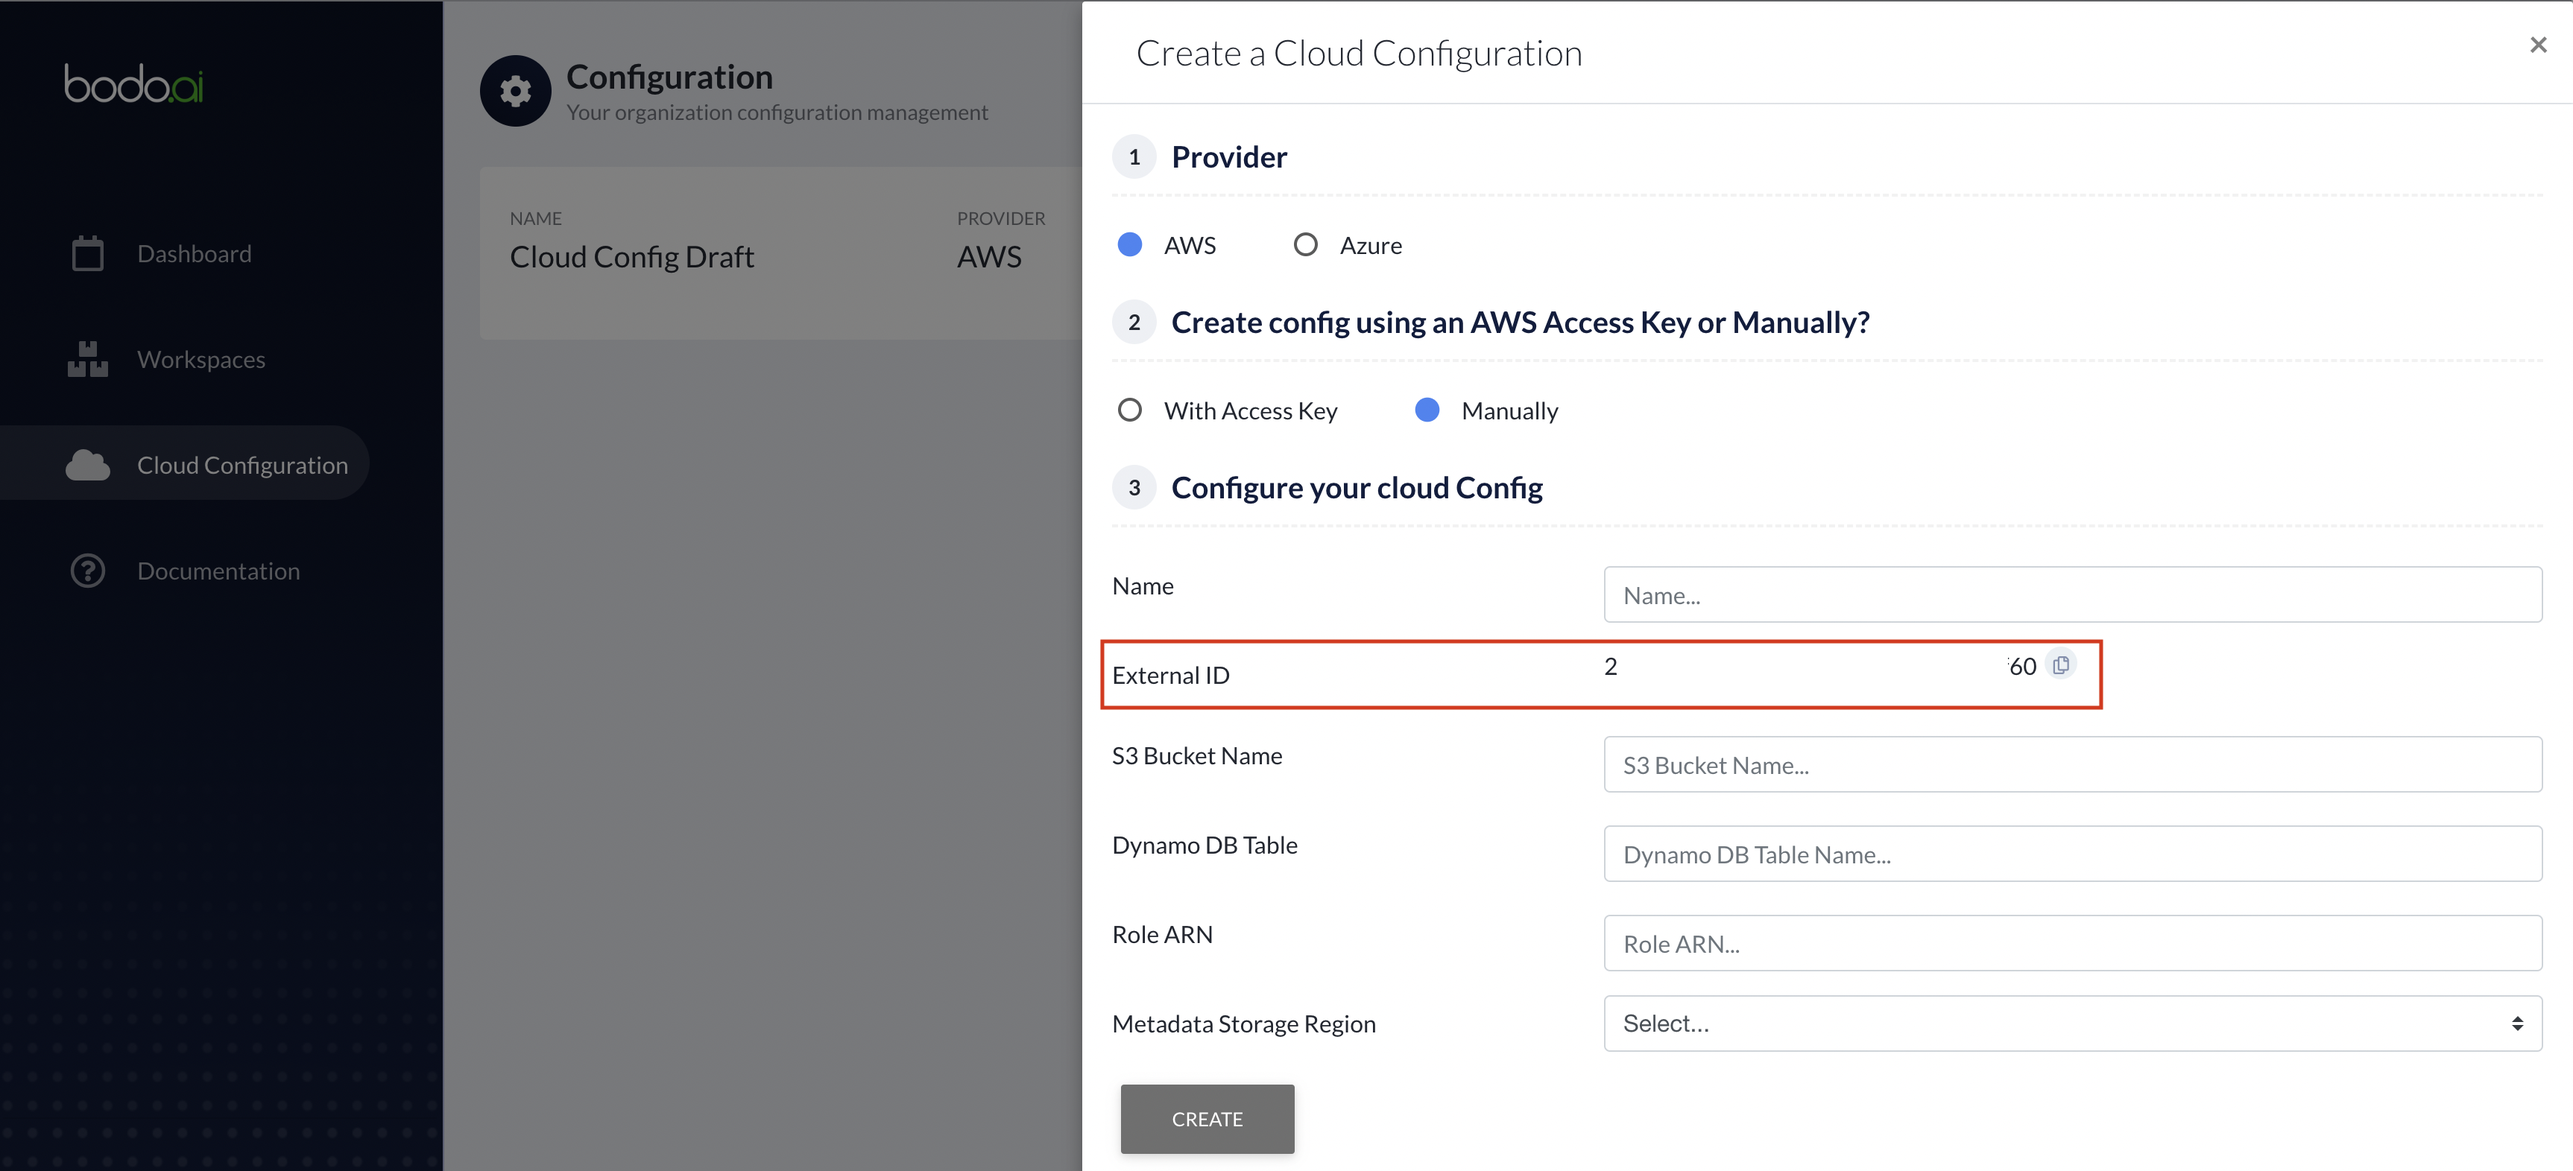
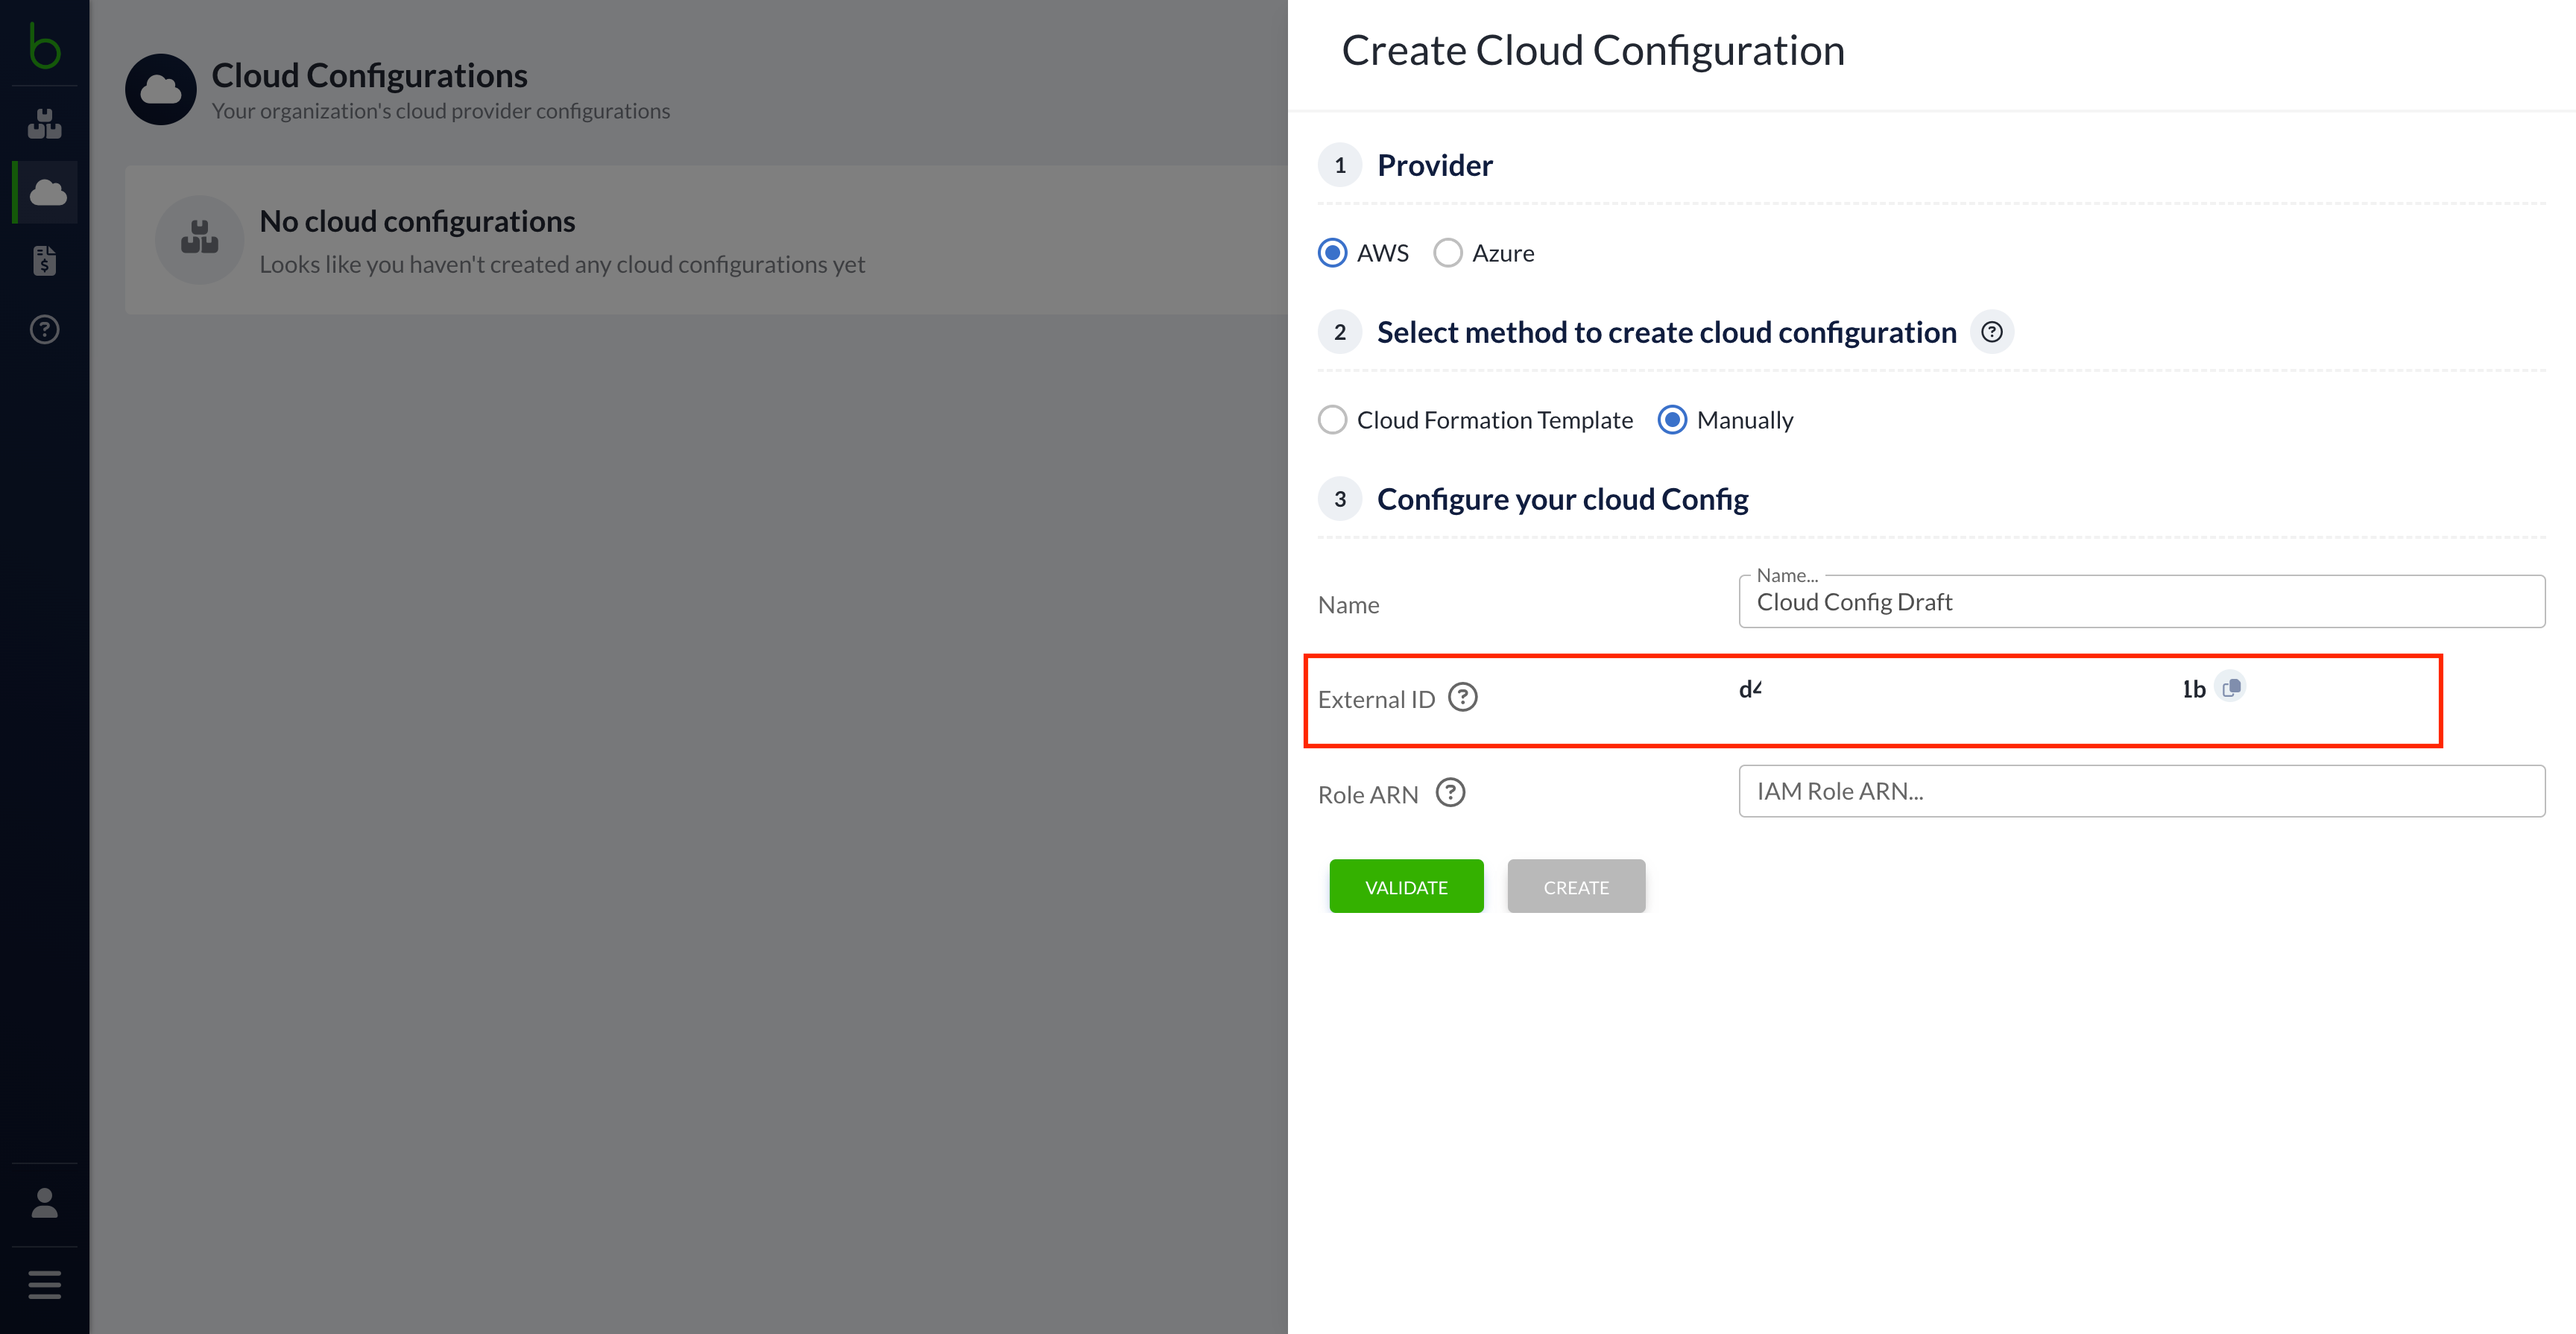
[BP-4697] Change Cloud Config docs (#8035)

diff --git a/docs/docs/installation_and_setup/bodo_platform_aws.md b/docs/docs/installation_and_setup/bodo_platform_aws.md
@@ -4,7 +4,7 @@
 
 a.  Subscribe through the [AWS Marketplace](https://aws.amazon.com/marketplace/pp/B08NY29SMQ){target="blank"}.
 
-b.  After confirming your subscription, you should click **Set up your Account** at the top right corner of the page. Bodo Platform's registration page will open in a new tab.
+b.  After confirming your subscription, you should click **Set up your Account** in the top right corner of the page. Bodo Platform's registration page will open in a new tab.
 
 ![Set up Account](../platform_onboarding_screenshots/set-up-account.png#center)
 
@@ -45,15 +45,13 @@ the required resources in it. This can be done through three ways:
     You need the following set of permissions to successfully create the resources defined in the CloudFormation stack:
 
     - [`AWSCloudFormationFullAccess`](https://docs.aws.amazon.com/aws-managed-policy/latest/reference/AWSCloudFormationFullAccess.html){target="blank"}
-    - [`AmazonS3FullAccess`](https://docs.aws.amazon.com/AmazonS3/latest/userguide/security-iam-awsmanpol.html#security-iam-awsmanpol-amazons3fullaccess){target="blank"}
-    - [`AmazonDynamoDBFullAccess`](https://docs.aws.amazon.com/aws-managed-policy/latest/reference/AmazonDynamoDBFullAccess.html){target="blank"}
     - [`AWSIAMFullAccess`](https://docs.aws.amazon.com/aws-managed-policy/latest/reference/IAMFullAccess.html){target="blank"}
 
 Once you have ensured that you have all permissions necessary to create the resources, follow the steps below to create a Cloud Configuration:
 
 1. Fill in the following values :
     - **Cloud Configuration Name**: A name for your Cloud Configuration.
-    - **Metadata Storage Region**: Fill this with the region where you want to store the metadata.
+    - **CloudFormation Region**: Fill this with the region where you want to deploy the stack.
 
    ![CloudFormation Form](../platform_onboarding_screenshots/cloudformation-form.png#center)
 
@@ -76,83 +74,18 @@ Once you have ensured that you have all permissions necessary to create the reso
    ![CloudFormation Status](../platform_onboarding_screenshots/cloudformation-status.gif#center)
 
 
-### 2. With Access Keys {#with Access Keys}
 
-1.  Follow the instructions from [AWS Account and Access Keys
-    guide](https://docs.aws.amazon.com/powershell/latest/userguide/pstools-appendix-sign-up.html)
-    to create/retrieve your AWS access key ID and secret access key.
-
-2.  Enter the Access Key ID and Secret created in the previous step.
-
-3. Select the region the where the metadata will be stored and click on
-    `CREATE`.
-
-    ![Enter Access Keys on Platform](../create_role_screenshots/create_config_with_accesskeys.png#center)
-
-
-    !!! note
-         This has been tested using access keys that have `S3FullAccess`, `DynamoDBFullAccess` and `IAMFullAccess` permissions. 
-         **Access keys with limited permissions will not work**.
-
-    !!! note
-         We will **not** save the provided Access Keys for security
-        reasons.
-
-
-### 3. Manual Process {#create_manually}
+### 2. Manual Process {#create_manually}
 
 Open the *Cloud Configuration Form* and note down the `External ID`.
 
-We need to create 3 resources through the AWS Console and provide details about them in 
+We need to create an IAM Role the AWS Console and provide details about it in 
 the *Cloud Configuration Form*.
-
-Before that, Open the Cloud Configuration Form and note down the External ID.
-
-![Cloud-Configuration](../create_s3_and_dynamo_screenshots/cloud_config_id.png#center)
-
-    
-!!! note
-
-     The S3 bucket and the Dynamo DB table should be created in the same region. 
-     Supported regions are: 'us-east-1', 'us-east-2', 'us-west-1', 'us-west-2 and 'eu-west-1'.
-
-#### Setup S3 Bucket {#setup_s3_bucket}
-- **Setup S3 Bucket**
-    1. In AWS console, go to S3 Management Console and click on `Create Bucket`.
-     ![S3-Page](../create_s3_and_dynamo_screenshots/s3_bucket_console.png#center)
-
-    2. In the creation form, enter the **Bucket Name** and select the **AWS Region**. 
-       Note these down since you will need to enter them in the *Cloud Configuration Form*.
-    ![create-s3-Page](../create_s3_and_dynamo_screenshots/s3-create-page.png#center)
-
-    3. All other fields can remain as it is by default and click on `Create Bucket`.
-
-#### Setup Dynamo DB table {#setup_dynamo_db}
-- **Setup Dynamo DB table**
-    1. In AWS console, go to Dynamo DB page and click on `Create Table`.
-     ![dynamo-Page](../create_s3_and_dynamo_screenshots/dynamo_console.png#center)
-    
-    2.  In the table creation form, enter the **Table name**. 
-        Note this down since you will need to enter it in the *Cloud Configuration Form*.
-
-    3. Under Partition key, enter the partion key as **LockID** and select the type as **String**. This partion key must be created
-       for Bodo Platform to work.
-     ![dynamo-create-page](../create_s3_and_dynamo_screenshots/create-dynamo.png#center)
-     
-    4. All other fields can remain as it is by default and click on `Create Table`.
-
-    5. Click on the table you have just created. Then click on `Additional info` under `General Information` tab. Note down the `Amazon Resource Name (ARN)`. 
-    
-    *Replace this value whenever you need DynamoDB ARN during setup.*
-
-    ![dynamo-details-page](../create_s3_and_dynamo_screenshots/dynamo-db-details.gif#center)
-
 
 #### Setup IAM role {iam_role_setup}
 - **IAM role**
 
-    1.  Log in to the [AWS Management
-        Console](https://aws.amazon.com/console/) and navigate to the
+    1.  Log in to the [AWS Management Console](https://aws.amazon.com/console/) and navigate to the
         **IAM** Service.
 
     2.  Select the *Roles* tab in the sidebar, and click `Create Role`.
@@ -198,9 +131,6 @@ Before that, Open the Cloud Configuration Form and note down the External ID.
     14. Bodo Cloud Platform requires a specific set of AWS permissions which
         are documented in [Bodo-Platform Policy](https://api.bodo.ai/platformPolicyDefinition.json){target="blank"}.
         Paste the contents of the linked JSON file into the policy editor.
-    
-    15. **`$$BUCKET_NAME$$`** and **`$$DYNAMO_ARN$$`** placeholders needs to be updated in the Bodo Platform Policy 
-        with the **S3 Bucket name** and **Dynamo DB ARN** respectively.
 
     15. Click on `Review policy`.
 
@@ -219,13 +149,15 @@ Once you have generated an IAM Role using the steps described above,
 you can fill the remaining fields in the **Cloud Configuration** form on the Bodo
 Platform.
 
-1.  Enter the **Name** of the configuration.
-2.  Enter the **S3 Bucket** name.
-3.  Enter the **Dynamo DB Table** name. 
-4.  Enter the Role ARN in the **Role ARN** field.
-5.  Select a **Region** from the dropdown list. 
-    This is the region of your S3 bucket and Dynamo DB table.
-6.  Click on `Validate`, and once you got the validation successful message, then click on `Create`.
+1.  Enter the **Name** of the configuration. 
+2.  Enter the Role ARN in the **Role ARN** field.
+3.  Click on `Create`.
+
+!!! info "Important"
+
+    Validation is not run during Cloud Configuration creation.
+    Some errors are detected only when you use the configuration to create a new workspace. 
+    These errors can include an invalid IAM Role ARN or incorrect permissions for the role.
 
 
 ![Create Cloud Configuration AWS Manual ](../platform_onboarding_screenshots/cloud_configuration_aws_manual.png#center)
@@ -251,9 +183,9 @@ Bodo Platform creates in your account to enable clusters and notebooks.
 | [EC2 Instances](https://aws.amazon.com/ec2/)                                                                                                                                                                                                                                                                                                                                                                                                                                         | Cluster/notebook workers                        |
 | [EFS](https://aws.amazon.com/efs/)                                                                                                                                                                                                                                                                                                                                                                                                                                                   | Shared file system for clusters                 |
 | [VPC](https://aws.amazon.com/vpc/), [Subnets](https://docs.aws.amazon.com/vpc/latest/userguide/VPC_Subnets.html), [NAT Gateway](https://docs.aws.amazon.com/vpc/latest/userguide/vpc-nat-gateway.html), [Elastic IP](https://docs.aws.amazon.com/AWSEC2/latest/UserGuide/elastic-ip-addresses-eip.html), [ENI](https://docs.aws.amazon.com/AWSEC2/latest/UserGuide/using-eni.html), [Security Groups](https://docs.aws.amazon.com/vpc/latest/userguide/VPC_SecurityGroups.html), ... | Secure networking for clusters/notebooks        |
-| [S3](https://aws.amazon.com/s3/) and [Dynamo DB](https://aws.amazon.com/dynamodb/)                                                                                                                                                                                                                                                                                                                                                                                                   | Resource states                                 |
-| [AWS Systems Manager](https://aws.amazon.com/systems-manager/)                                                                                                                                                                                                                                                                                                                                                                                                                       | Managing EC2 instances                          |
-| [KMS](https://aws.amazon.com/kms/)                                                                                                                                                                                                                                                                                                                                                                                                                                                   | Cluster secrets (e.g. SSH keys)                 |
+| [S3](https://aws.amazon.com/s3/)                                                                                                                                                                                                                                                                                                                                                                                                                                                     | Storage                                         |
+| [AWS AutoScaling Group](https://aws.amazon.com/ec2/autoscaling/)                                                                                                                                                                                                                                                                                                                                                                                                                     | Managing EC2 instances                          |
+| [SSM Parameter Store](https://docs.aws.amazon.com/systems-manager/latest/userguide/systems-manager-parameter-store.html)                                                                                                                                                                                                                                                                                                                                                             | Cluster secrets (e.g. SSH keys)                 |
 | [IAM Role](https://docs.aws.amazon.com/IAM/latest/UserGuide/id_roles.html) for Clusters                                                                                                                                                                                                                                                                                                                                                                                              | Allow cluster workers to access resources above |
 
 !!! note

diff --git a/docs/docs/quick_start/quick_start_platform.md b/docs/docs/quick_start/quick_start_platform.md
@@ -56,8 +56,6 @@ which will create the necessary resources to support the Cloud Configuration in 
     You need the following set of permissions to successfully create the resources defined in the CloudFormation stack:
 
     - [`AWSCloudFormationFullAccess`](https://docs.aws.amazon.com/aws-managed-policy/latest/reference/AWSCloudFormationFullAccess.html){target="blank"}
-    - [`AmazonS3FullAccess`](https://docs.aws.amazon.com/AmazonS3/latest/userguide/security-iam-awsmanpol.html#security-iam-awsmanpol-amazons3fullaccess){target="blank"}
-    - [`AmazonDynamoDBFullAccess`](https://docs.aws.amazon.com/aws-managed-policy/latest/reference/AmazonDynamoDBFullAccess.html){target="blank"}
     - [`AWSIAMFullAccess`](https://docs.aws.amazon.com/aws-managed-policy/latest/reference/IAMFullAccess.html){target="blank"}
 
 Once you have ensured that you have all permissions necessary to create the resources, follow the steps below to create a Cloud Configuration:
@@ -73,7 +71,7 @@ Once you have ensured that you have all permissions necessary to create the reso
 
 3. Fill in the following values :
     - **Cloud Configuration Name**: A name for your Cloud Configuration.
-    - **Metadata Storage Region**: Fill this with the region where you want to store the metadata.
+    - **CloudFormation Stack Region**: Fill this with the region where you want to deploy the stack.
    
 4. Click on **Launch CloudFormation Template**. This will open the AWS CloudFormation console in a new tab in the selected region.
 
